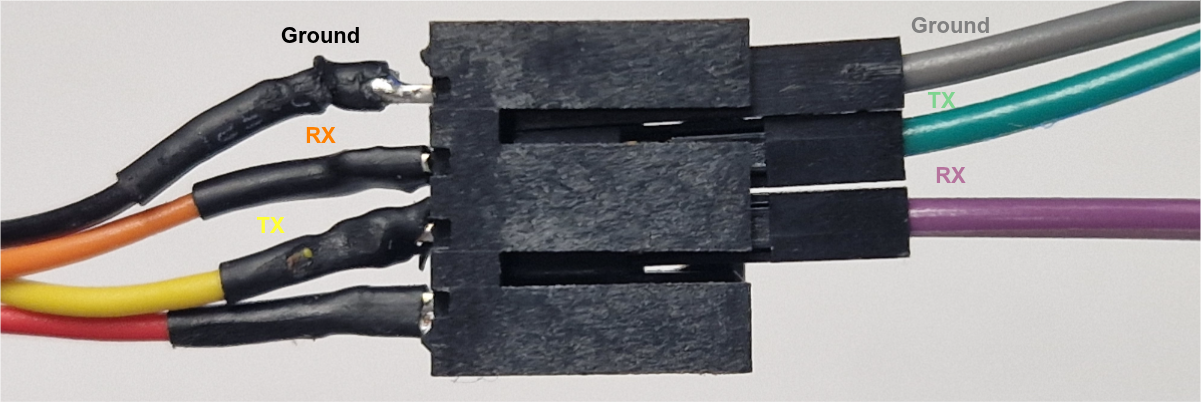
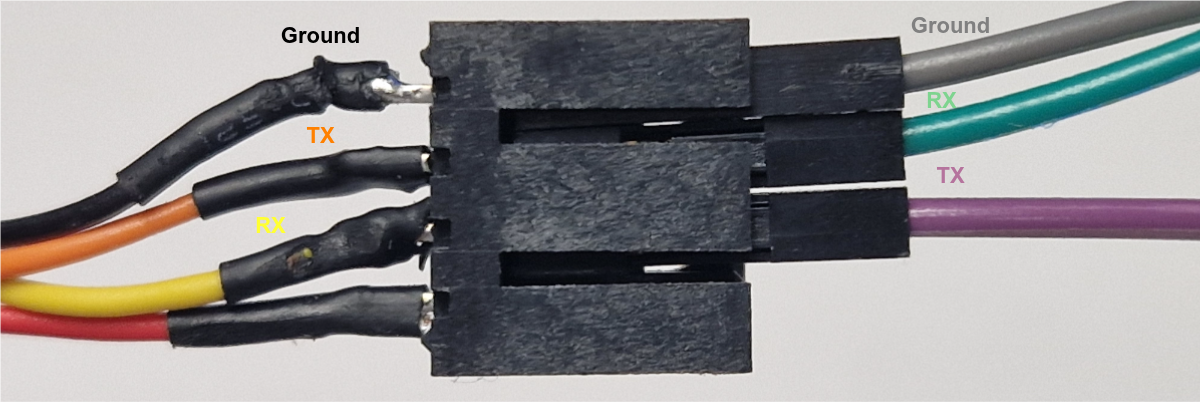
Se añaden explicaciones en la documentación y se modifica el scripts emulador para seleccionar, al llamar al script, que puerto serie se quiere usar

diff --git a/scripts/emulador_radar.py b/scripts/emulador_radar.py
@@ -1,13 +1,21 @@
 import serial
 import time
 import math
+import sys
 
-# Configuración del puerto de la Raspberry Pi 4 (/dev/serial0)
+DIR_DISPS = '/dev/'
+BAUD_RATE = 115200
+
+# Configuración del puerto de la Raspberry Pi 4 (/dev/serial0) = (/dev/ttyAMA0)
+
+puerto_serie = sys.argv[1] if len(sys.argv) == 2 else 'serial0'
+
 try:
-    ser = serial.Serial('/dev/serial0', 115200, timeout=1)
+    ser = serial.Serial(DIR_DISPS + puerto_serie, 115200, timeout=1)
 except serial.SerialException as e:
-    print(f"Error crítico abriendo el puerto serie: {e}")
+    print(f"Error crítico abriendo el puerto serie {DIR_DISPS+puerto_serie}: {e}")
     exit()
+
 
 def enviar_trama_radar(distancia_m, snr, forzar_error=False):
     """
@@ -16,57 +24,59 @@ def enviar_trama_radar(distancia_m, snr, forzar_error=False):
     """
     header = 0xFE
     version = 0x02
-    
+
     if forzar_error:
-        header = 0x00 # Provoca un fallo intencionado de sincronismo de cabecera
-    
+        header = 0x00  # Provoca un fallo intencionado de sincronismo de cabecera
+
     # Conversión métrica a centímetros para el payload de 16 bits del radar
     distancia_raw = int(distancia_m * 100)
     alt_lsb = distancia_raw & 0xFF
     alt_msb = (distancia_raw >> 8) & 0xFF
-    
+
     # Algoritmo de Checksum: Suma aritmetica de los primeros 5 bytes acotada a 8 bits
     checksum = (version + alt_lsb + alt_msb + snr) & 0xFF
-    
+
     # Empaquetado en array de bytes puros (Formato binario)
     trama = bytearray([header, version, alt_lsb, alt_msb, snr, checksum])
-    
+
     # Transmisión física por el bus
     ser.write(trama)
 
+
 # --- CONFIGURACIÓN DEL BUCLE DE ALTA PRECISIÓN (100 Hz) ---
-frecuencia = 100.0  
+frecuencia = 100.0
 intervalo = 1.0 / frecuencia  # 10 milisegundos
 proxima_ejecucion = time.perf_counter() + intervalo
 
-print("====================================================")
-print(" Emulador HIL - Radar Ainstein US-D1 (100 Hz) Activo")
-print(" Transmitiendo en UART0: GPIO 0 (Pin 8)")
-print("====================================================")
+print("===========================================================")
+print("Emulador HIL - Radar Ainstein US-D1 (100 Hz) Activo      ")
+print(f"Transmitiendo por UART a traves del puerto:{puerto_serie}")
+print("===========================================================")
 
 try:
     while True:
         t_actual = time.perf_counter()
-        
+
         # Perfil de vuelo simulado: Oscilación sinusoidal entre 2 y 8 metros
         altitud_simulada = 5.0 + 3.0 * math.sin(t_actual * 0.5)
         snr_simulado = 35.0 + 5.0 * math.sin(t_actual * 0.5)
-        
+
         # INTERFAZ DE INYECCIÓN DE FALLOS (Test de Robustez)
         # Cada ciclo de 30 segundos, durante 3 segundos se corrompe la cabecera
-        #segundo_actual = int(t_actual) % 30
-        error_activo = 0#(15 <= segundo_actual <= 18)
-        
+        # segundo_actual = int(t_actual) % 30
+        error_activo = 0  # (15 <= segundo_actual <= 18)
+
         if error_activo:
             enviar_trama_radar(altitud_simulada, snr=0, forzar_error=True)
         else:
-            enviar_trama_radar(altitud_simulada, int(snr_simulado), forzar_error=False)
-            
+            enviar_trama_radar(altitud_simulada, int(
+                snr_simulado), forzar_error=False)
+
         # Control estricto del jitter del kernel de Linux
         tiempo_espera = proxima_ejecucion - time.perf_counter()
         if tiempo_espera > 0:
             time.sleep(tiempo_espera)
-        
+
         proxima_ejecucion += intervalo
 
 except KeyboardInterrupt:

diff --git a/scripts/cap_data.py b/scripts/cap_data.py
@@ -117,7 +117,8 @@ except serial.SerialException as e:
     print(f"Error de conexión: {e}")
 # Excepción que ocurre al pulsar "Ctrl+C"
 except KeyboardInterrupt:
-    print("\nDatos almacenados en 'datos_radar.csv'.")
+    print()
+    print(f"Datos almacenados en '{sys.argv[1]}.csv'.")
 # Para cualquier otra excepción
 except Exception as e:
     print("Error:", e)

diff --git a/README.md b/README.md
@@ -37,6 +37,12 @@ Para realizar la emulación de este proyecto se van a utilizar los pies conectad
 
 Para usar el puerto serie hay que configurarlo previamente. Se recomienda ver el siguiente [vídeo](https://www.youtube.com/watch?v=oevxqPk78sM) donde se explica como configurar el puerto serie en la Rapsberry Pi 4.
 
+Además, para activar las UARTs de forma manual hay que ir al archivo `config.txt` (está en `/boot/config.txt` o en `/boot/firmware/config.txt`). Este archivo permite realizar modificaciones en el *device tree*. Hay que añadir 2 líneas en este archivo:
+* `enable_uart=1`: permite *mapear* la UART a los GPIOs correspondientes
+* `dtoverlay=uartX`: donde `X` representa el número de la UART que se quiere activar. En este caso se ha activado el 3
+
+**Nota**: Hay que tener en cuenta que cuando se activa el puerto serie siguiendo las indicaciones del vídeo hay 2 formas de acceder a ese dispositivo: `/dev/serial0` o `/dev/ttyAMA0`. En la RPi4 la notación va en orden, no en función del dispositivo activo, es decir, que para hacer referencia al puerto serie sobre el que está mapeada la UART3, si solo hay 2 UARTs activas se accede mediante `/dev/ttyAMA1`.
+
 ### Envío sencillo de datos entre el portátil y la Raspberry
 
 Antes de emular nada, es conveniente realizar una transmisión, utilizando el puerto serie, entre máquinas. De esta manera, podemos comprobar que los cables están correctamente conectados y que todo funciona correctamente.
@@ -45,12 +51,19 @@ Para ello usaremos la herramienta *minicom*. Se instala mediante el siguiente co
 
 Para usar correctamente los pines UART de la Raspberry se recomienda usar el proyecto [Raspberry Pi Pinout](https://pinout.xyz/). 
 
-![pinout_RPi4](doc/imgs/pinout_RPi4.png)
+|Pinout del la RPi4 | Pinout de la RPi4 destacando las UARTs|
+| ----------------- | --------------------------------------|
+|![pinout_RPi4](doc/imgs/pinout_RPi4.png)|![pinout_UARTs_RPi4](doc/imgs/pinout_UARTs_RPi4.png)|
 
-En este caso se usarán los siguientes pines:
+En este caso se usarán los siguientes pines para la UART0:
 * 9: *Ground* (Cable gris)
 * 8: *GPIO 14 (UART0 TX)* (Cable morado)
-* 10: *GPIO 15 (UART0 RX)* (Cable verde)
+* 10: *GPIO 15 (UART0 RX)* (Cable verde). Como nos interesa solo la transmisión este pin es irrelevante
+
+Para la UART3 (se ha escogido esta porque los pines **TX** están cerca de la UART0):
+* 9: *Ground* (Cable gris)
+* 7: *GPIO 4 (UART3 TX)* (Cable morado)
+* 29: *GPIO 5 (UART3 RX)* (Cable verde). Como nos interesa solo la transmisión este pin es irrelevante
 
 Teniendo claros los pines de la Raspberry, ahora hay que realizar la correcta conexión con el adaptador de USB a UART como se muestra en la imagen inferior:
 